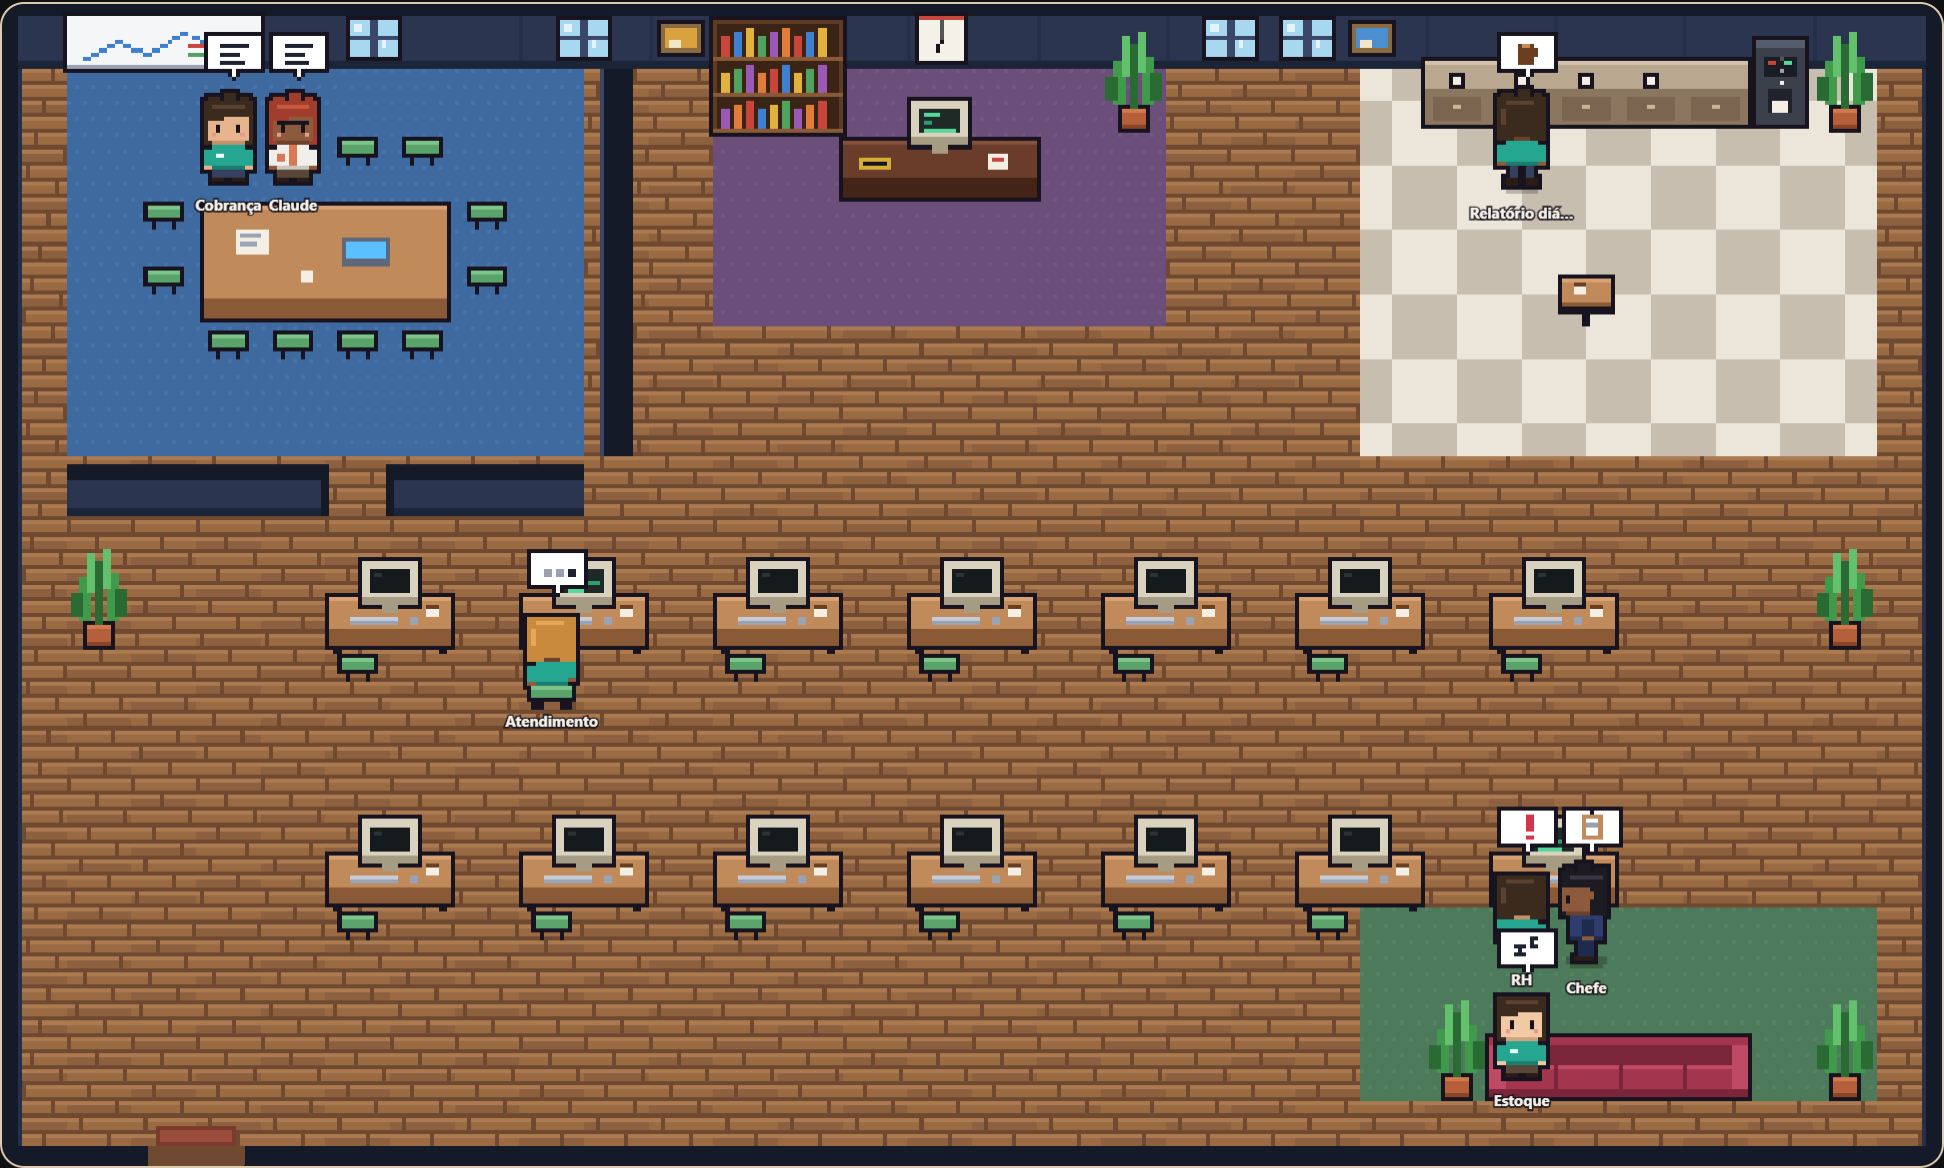
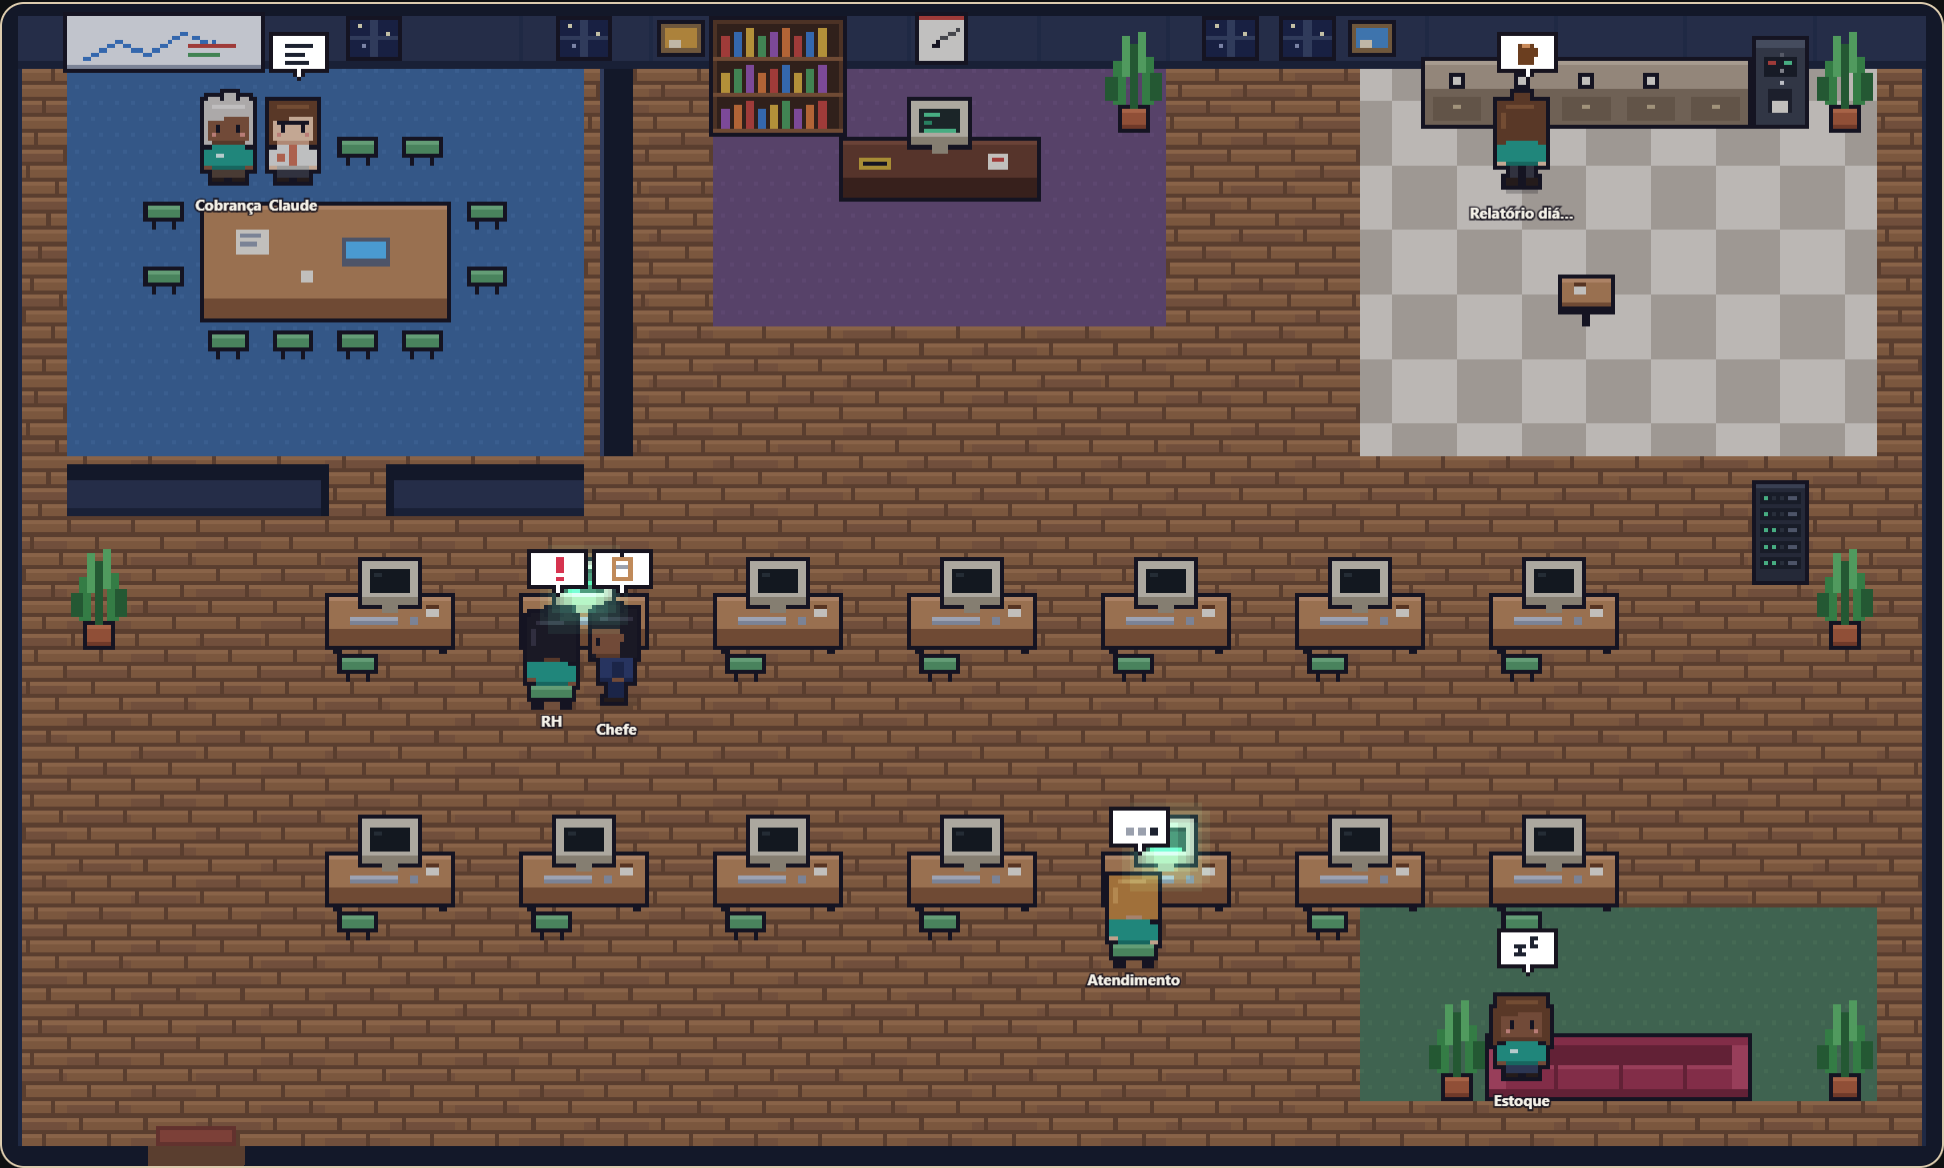
Escritório: cada sessão da Aurora com o próprio nome
O nome começa com a mesma letra do título da conversa ("Metas de outubro" ->
Mariana), é escolhido pelo código da conversa (a mesma sessão mantém o nome)
e não se repete na sala; a sessão mais antiga escolhe primeiro, então quem
chega nunca toma o nome de quem já estava. As cópias levam o nome de quem
ajudam ("Cópia 2 de Paula"). Lista: "Mariana · Metas de outubro".

diff --git a/app/office.js b/app/office.js
@@ -1,8 +1,8 @@
 // The agents' office: the sessions, agents and helpers of the Harness as people in a room, so you can
 // see them work. Each project has its room; the task agents share the team floor. Every character is
 // something real, in the state it is really in (nothing is staged):
-// - "aurora": a conversation turn running now (or that just ended), one per conversation; a quiet
-//   room keeps its Aurora resting;
+// - "aurora": a conversation turn running now (or that just ended), one per conversation, each with a
+//   name of its own (sessionName); a quiet room keeps its Aurora resting;
 // - "agente": a task agent (app/agents.js), working on a run, resting, or called to account after a
 //   failed or corrected delivery;
 // - "copia": the extra copies of the local model checking an answer (app/copies.js);
@@ -46,6 +46,31 @@ export function turnState(turn, conversation = null) {
   return { state: "pensando", activity: stage || "Pensando" };
 }
 
+// ---------------- Names ----------------
+// Each Aurora session gets a person's name of its own: one starting with the same letter as its
+// conversation's title ("Metas de outubro" -> Marina, Mateus...), chosen by the conversation's id (the
+// same session keeps its name), never the same twice in a room.
+const NAMES = {
+  a: ["Ana", "Arthur", "Alice", "André", "Amanda", "Antônio"], b: ["Bruno", "Beatriz", "Bernardo", "Bianca", "Benício"], c: ["Carla", "Caio", "Camila", "César", "Clara"],
+  d: ["Davi", "Daniela", "Diego", "Débora", "Dora"], e: ["Eduardo", "Elisa", "Enzo", "Estela", "Érico"], f: ["Fernanda", "Felipe", "Fábio", "Flávia", "Francisco"],
+  g: ["Gabriel", "Giovana", "Gustavo", "Gabriela", "Guilherme"], h: ["Helena", "Heitor", "Hugo", "Heloísa", "Henrique"], i: ["Isabela", "Igor", "Ingrid", "Ítalo", "Iris"],
+  j: ["Júlia", "João", "Joana", "Jorge", "Juliano"], k: ["Karina", "Kauã", "Kelly", "Kléber"], l: ["Lucas", "Laura", "Leonardo", "Lívia", "Luana"],
+  m: ["Marina", "Mateus", "Mariana", "Miguel", "Mel"], n: ["Natália", "Nicolas", "Nina", "Nelson", "Noemi"], o: ["Otávio", "Olívia", "Oscar", "Odete", "Orlando"],
+  p: ["Paulo", "Patrícia", "Pedro", "Paula", "Priscila"], q: ["Quitéria", "Quirino", "Quênia"], r: ["Rafael", "Renata", "Rodrigo", "Raquel", "Rui"],
+  s: ["Sofia", "Samuel", "Sara", "Sérgio", "Silvia"], t: ["Tiago", "Tânia", "Tomás", "Teresa", "Túlio"], u: ["Úrsula", "Ulisses", "Ubiratã"],
+  v: ["Valentina", "Vinícius", "Vera", "Vitor", "Viviane"], w: ["Wesley", "Wanda", "Wagner", "Wilma"], x: ["Xavier", "Xênia"], y: ["Yasmin", "Yuri"], z: ["Zeca", "Zélia", "Zoe"],
+};
+const ALL_NAMES = Object.values(NAMES).flat();
+const fold = (text) => String(text || "").normalize("NFD").replace(/[\u0300-\u036f]/g, "").toLowerCase();
+const hashText = (text) => { let h = 2166136261; for (const ch of String(text)) { h ^= ch.charCodeAt(0); h = Math.imul(h, 16777619); } return h >>> 0; };
+/** A session's name: the initial of its title, picked by its id, not one already in the room. */
+export function sessionName(title, id, taken = new Set()) {
+  const letter = (/[a-z]/.exec(fold(title)) || [""])[0];
+  const pool = NAMES[letter] || ALL_NAMES; const h = hashText(id);
+  for (const list of [pool, ALL_NAMES]) for (let i = 0; i < list.length; i++) { const n = list[(h + i) % list.length]; if (!taken.has(n)) return n; }
+  return `Aurora ${(h % 90) + 10}`;
+}
+
 const short = (text, n = 48) => { const s = String(text || "").replace(/\s+/g, " ").trim(); return s.length > n ? `${s.slice(0, n - 1)}…` : s; };
 const age = (iso, now) => (iso ? now - new Date(iso).getTime() : Infinity);
 
@@ -75,7 +100,7 @@ export function buildOffice({ projects = [], conversations = new Map(), turns = 
   const add = (roomId, actor) => { rooms.get(roomId).actors.push(actor); return actor; };
   const helpers = (r, owner, s) => {
     if (s.state === "revisao") add(r, { id: `prof:${owner.id}`, kind: "professor", name: TEACHERS[s.teacher], teacher: s.teacher, state: "revisao", activity: `Revisando a entrega de ${owner.name}`, with: owner.id, since: owner.since });
-    if (s.state === "conferindo") for (let i = 1; i < Math.min(s.copies || 2, 4); i++) add(r, { id: `copia:${owner.id}:${i}`, kind: "copia", name: `Cópia ${i + 1}`, state: "conferindo", activity: `Conferindo a resposta de ${owner.name}`, with: owner.id, since: owner.since });
+    if (s.state === "conferindo") for (let i = 1; i < Math.min(s.copies || 2, 4); i++) add(r, { id: `copia:${owner.id}:${i}`, kind: "copia", name: `Cópia ${i + 1} de ${owner.name}`, state: "conferindo", activity: `Conferindo a resposta de ${owner.name}`, with: owner.id, since: owner.since });
   };
 
   // The task agents: each one, in the state of its run (or at rest).
@@ -98,12 +123,15 @@ export function buildOffice({ projects = [], conversations = new Map(), turns = 
     if (turn) helpers(TEAM_ROOM, actor, actor);
   }
 
-  // The Aurora in each conversation working now (agent runs are already on the team floor).
-  for (const t of turns.active) {
+  // The Aurora in each conversation working now (agent runs are already on the team floor), each with
+  // her own name; the oldest session names first, so a newcomer never takes someone's name.
+  const names = new Map();
+  const nameIn = (r, c, id) => { if (!names.has(r)) names.set(r, new Set(rooms.get(r).actors.map((a) => a.name))); const n = sessionName(c?.title || "", id, names.get(r)); names.get(r).add(n); return n; };
+  for (const t of [...turns.active].sort((a, b) => (a.since || 0) - (b.since || 0))) {
     if (runByConversation.get(t.conversationId)?.status === "running") continue;
     const c = conversations.get(t.conversationId); const r = roomOf(c);
     const s = turnState(t, c);
-    const actor = add(r, { id: `aurora:${t.conversationId}`, kind: "aurora", name: "Aurora", conversationId: t.conversationId, task: short(c?.title || "Conversa", 60), ...s, activity: short(s.activity, 60), since: t.since, plan: t.plan });
+    const actor = add(r, { id: `aurora:${t.conversationId}`, kind: "aurora", name: nameIn(r, c, t.conversationId), conversationId: t.conversationId, task: short(c?.title || "Conversa", 60), ...s, activity: short(s.activity, 60), since: t.since, plan: t.plan });
     helpers(r, actor, s);
   }
   // Just delivered: a coffee (once per conversation, the latest).
@@ -112,7 +140,7 @@ export function buildOffice({ projects = [], conversations = new Map(), turns = 
     if (seen.has(e.conversationId) || activeById.has(e.conversationId) || runByConversation.has(e.conversationId)) continue;
     seen.add(e.conversationId);
     const c = conversations.get(e.conversationId); const r = roomOf(c);
-    add(r, { id: `aurora:${e.conversationId}`, kind: "aurora", name: "Aurora", conversationId: e.conversationId, task: short(c?.title || "Conversa", 60), state: e.cancelled ? "descanso" : "cafe", activity: e.cancelled ? "Pedido cancelado" : "Acabou de responder", since: e.endedAt });
+    add(r, { id: `aurora:${e.conversationId}`, kind: "aurora", name: nameIn(r, c, e.conversationId), conversationId: e.conversationId, task: short(c?.title || "Conversa", 60), state: e.cancelled ? "descanso" : "cafe", activity: e.cancelled ? "Pedido cancelado" : "Acabou de responder", since: e.endedAt });
   }
 
   // Each room: its Aurora at rest when nobody is working there, and the boss.

diff --git a/frontend/src/OfficeView.tsx b/frontend/src/OfficeView.tsx
@@ -17,6 +17,8 @@ export const STATE_LABEL: Record<string, string> = {
   descanso: "Descansando", cobrado: "Sendo cobrado", desligado: "Fora do escritório", supervisionando: "Supervisionando", cobrando: "Cobrando",
 };
 const KIND_LABEL: Record<OfficeActor["kind"], string> = { aurora: "Aurora (sessão)", agente: "Agente", copia: "Cópia (subagente)", professor: "Professor", chefe: "Chefe" };
+/** How someone is called in the list and on hover: a session with its conversation ("Marina · Metas de outubro"). */
+const who = (a: OfficeActor) => (a.kind === "aurora" && a.task ? `${a.name} · ${a.task}` : a.name);
 const BUSY = new Set(["trabalhando", "pensando", "aguardando", "revisao", "refazendo", "conferindo", "chegando", "reuniao"]);
 
 // The shirt colours of the pixel people (officePixel.ts), for the legend and the list.
@@ -118,7 +120,8 @@ export default function OfficeView({ onOpenConversation, onOpenAgents }: { onOpe
       <aside className="office-side" aria-label="Quem está na sala">
         {chosen ? <div className="office-card">
           <p className="office-kind">{KIND_LABEL[chosen.kind]}{chosen.department ? ` · ${chosen.department}` : ""}</p>
-          <h2>{chosen.kind === "aurora" && chosen.task ? `Aurora · ${chosen.task}` : chosen.name}</h2>
+          <h2>{chosen.name}</h2>
+          {chosen.kind === "aurora" && chosen.task && <p className="office-task">Conversa: {chosen.task}</p>}
           <p className={`office-state s-${chosen.state}`}>{STATE_LABEL[chosen.state] || chosen.state}{chosen.since ? ` · ${since(chosen.since)}` : ""}</p>
           <p>{chosen.activity}</p>
           {chosen.task && chosen.kind === "agente" && <p className="office-task">Tarefa: {chosen.task}</p>}
@@ -133,7 +136,7 @@ export default function OfficeView({ onOpenConversation, onOpenAgents }: { onOpe
           {people.map((a) => <li key={a.id}>
             <button className={a.id === selected ? "active" : ""} onClick={() => setSelected(a.id)}>
               <span className="office-dot" style={{ background: BODY[a.kind] }} />
-              <span className="office-who">{a.kind === "aurora" && a.task ? `Aurora · ${a.task}` : a.name}</span>
+              <span className="office-who">{who(a)}</span>
               <span className={`office-state s-${a.state}`}>{STATE_LABEL[a.state] || a.state}</span>
             </button>
           </li>)}
@@ -198,7 +201,7 @@ function draw(ctx: CanvasRenderingContext2D, canvas: HTMLCanvasElement, walkers:
   ctx.textAlign = "center";
   for (const w of walkers) {
     const lit = w.id === hover || w.id === selected; const a = w.actor; const p = feet(w);
-    const text = lit ? `${a.kind === "aurora" && a.task ? `Aurora · ${a.task}` : a.name}: ${STATE_LABEL[a.state] || a.state}` : a.kind === "aurora" ? "Aurora" : a.name.length > 14 ? `${a.name.slice(0, 13)}…` : a.name;
+    const text = lit ? `${who(a)}: ${STATE_LABEL[a.state] || a.state}` : a.kind === "copia" ? a.name.replace(/ de .*/, "") : a.name.length > 14 ? `${a.name.slice(0, 13)}…` : a.name;
     const size = Math.round((lit ? 4.6 : 3.6) * k); ctx.font = `700 ${size}px "Segoe UI", sans-serif`;
     const x = p.x * k, y = (p.y + 5) * k + size * 0.6;
     if (lit) { const wd = ctx.measureText(text).width + size; ctx.fillStyle = "rgba(23,20,31,0.88)"; ctx.fillRect(x - wd / 2, y - size, wd, size * 1.4); ctx.fillStyle = "#ffffff"; ctx.fillText(text, x, y); continue; }

diff --git a/test/office.test.js b/test/office.test.js
@@ -1,6 +1,6 @@
 import test from 'node:test';
 import assert from 'node:assert/strict';
-import { buildOffice, turnState, TEAM_ROOM } from '../app/office.js';
+import { buildOffice, turnState, sessionName, TEAM_ROOM } from '../app/office.js';
 import { startTurn, setStage, pushTurnStep, endTurn, turnSnapshots, requestApproval } from '../app/pendingTurns.js';
 
 const now = Date.parse('2026-10-12T22:00:00Z');
@@ -64,6 +64,22 @@ test('office: every character is something real, in its real state, in its proje
   // A team request: the boss and its agents in the meeting.
   const meeting = buildOffice({ agents: [{ id: 'a5', name: 'Estoque', enabled: true, projectId: 'pe' }], runs: [], orchestrations: [{ status: 'running', request: 'Fechar o mês', startedAt: iso(1000), plan: [{ agentId: 'a5' }] }], now });
   assert.equal(find(meeting, TEAM_ROOM, 'agente:a5').state, 'reuniao'); assert.equal(find(meeting, TEAM_ROOM, 'chefe:equipe').state, 'reuniao');
+});
+
+test('office: each session has a name of its own, from its conversation (same letter, same name every time, none twice in a room)', () => {
+  const n = sessionName('Metas de outubro', 'c1');
+  assert.match(n, /^M/); assert.equal(sessionName('Metas de outubro', 'c1'), n);
+  assert.match(sessionName('Écrire un mail', 'c9'), /^[EÉ]/);
+  assert.notEqual(sessionName('Metas', 'c1', new Set([n])), n);
+  const turns = { active: ['a', 'b', 'c'].map((id, i) => ({ conversationId: id, stage: 'Pensando…', steps: [], since: now - 1000 * (3 - i) })), ended: [] };
+  const conversations = new Map(['a', 'b', 'c'].map((id) => [id, { id, title: 'Metas', projectId: 'p1' }]));
+  const office = buildOffice({ projects: [{ id: 'p1', name: 'Vendas' }], conversations, turns, now });
+  const names = office.rooms.find((r) => r.id === 'p1').actors.filter((a) => a.kind === 'aurora').map((a) => a.name);
+  assert.equal(new Set(names).size, 3); assert.ok(names.every((x) => /^M/.test(x)), names.join());
+  // A newcomer never takes the name of who was already there.
+  const later = buildOffice({ projects: [{ id: 'p1', name: 'Vendas' }], conversations: new Map([...conversations, ['z', { id: 'z', title: 'Metas', projectId: 'p1' }]]), turns: { active: [...turns.active, { conversationId: 'z', stage: 'x', steps: [], since: now }], ended: [] }, now });
+  const again = later.rooms.find((r) => r.id === 'p1').actors.filter((a) => a.kind === 'aurora' && a.conversationId !== 'z').map((a) => a.name);
+  assert.deepEqual(again, names);
 });
 
 test('office: the live registry gives each turn\'s stage, steps, approval and the turns just ended', async () => {

diff --git a/docs/ESCRITORIO.md b/docs/ESCRITORIO.md
@@ -21,7 +21,7 @@ Cada pessoa na sala é algo real do Harness, no estado em que está agora. Nada 
 
 | Pessoa | O que representa | De onde vem |
 | --- | --- | --- |
-| **Aurora** (roxo) | O turno de uma conversa trabalhando agora, ou que acabou de responder (uma por conversa). Uma sala sem trabalho mostra a Aurora descansando. | `app/pendingTurns.js` (`turnSnapshots`) |
+| **Sessão da Aurora** (roxo) | O turno de uma conversa trabalhando agora, ou que acabou de responder (uma por conversa). Cada sessão tem um nome próprio: começa com a mesma letra do título da conversa ("Metas de outubro" → Mariana), é escolhido pelo código da conversa (a mesma sessão mantém o nome) e não se repete na sala (`sessionName`). As cópias levam o nome de quem ajudam ("Cópia 2 de Paula"). Uma sala sem trabalho mostra a Aurora descansando. | `app/pendingTurns.js` (`turnSnapshots`) |
 | **Agente** (verde-água) | Um agente de tarefa (Agentes), no estado da sua execução. | `app/agents.js` (agentes e `agent_runs`) |
 | **Cópia** (verde claro, translúcida) | As cópias do modelo local conferindo uma resposta. | o estágio "Conferindo a resposta com N cópias" (`app/copies.js`) |
 | **Professor** (laranja, crachá C ou X) | Claude ou Codex, **só enquanto revisa**: entra na sala, senta à mesa de reunião com quem é revisado e sai depois. | o estágio "Revisando com…" (`app/teachingLoop.js`) |
